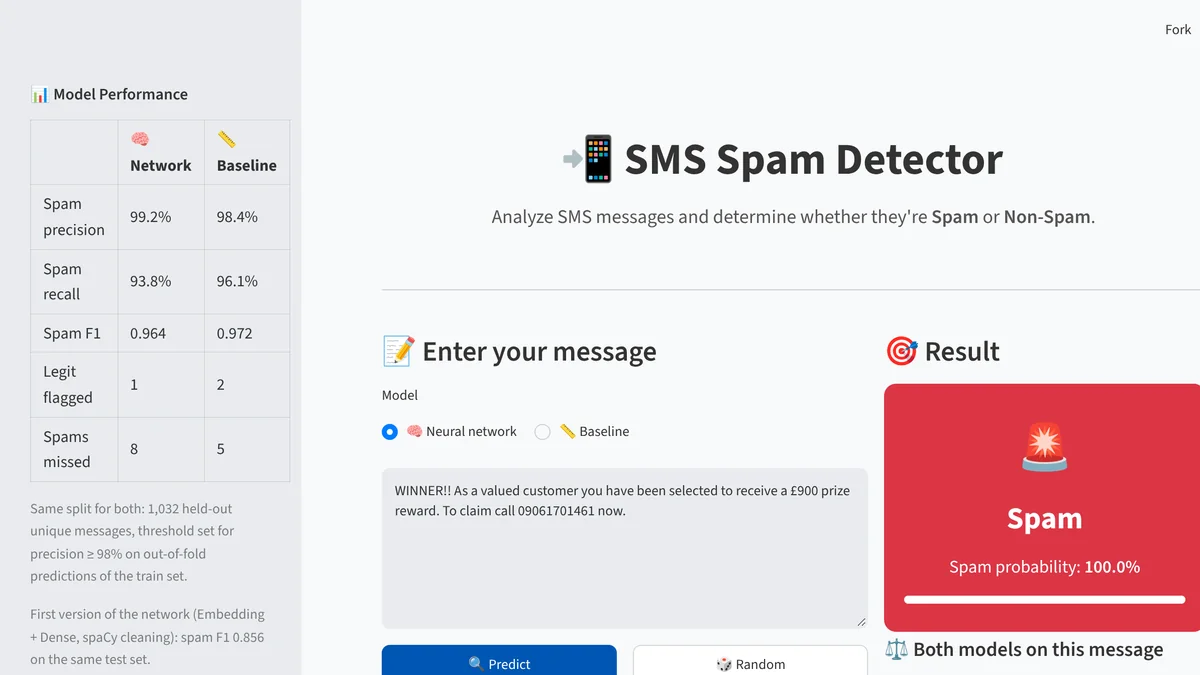
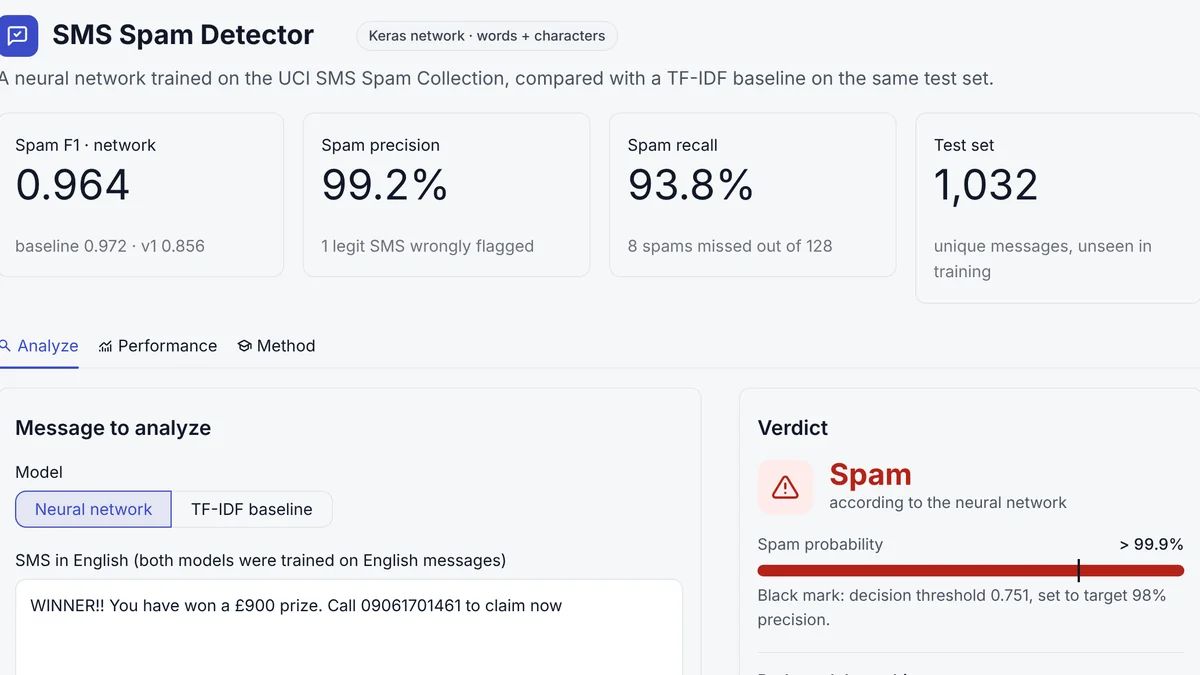
SMS Spam: screenshot of the redesigned app
- New card screenshot: headline metrics and a spam verdict from the
  analytics console redesign
- Hero and social preview images rebuilt

diff --git a/index.html b/index.html
@@ -17,12 +17,12 @@
 		<meta property="og:url" content="https://cnoret.github.io/" />
 		<meta property="og:title" content="Christophe Noret | Data Analyst · Analytics Engineer" />
 		<meta property="og:description" content="Les bons chiffres, au bon moment, pour les bonnes personnes. Data Analyst &amp; Analytics Engineer à Angers / Nantes : 4 projets avec démos en ligne." />
-		<meta property="og:image" content="https://cnoret.github.io/images/og-card.jpg?v=7" />
+		<meta property="og:image" content="https://cnoret.github.io/images/og-card.jpg?v=8" />
 		<meta property="og:image:width" content="1200" />
 		<meta property="og:image:height" content="630" />
 		<meta property="og:image:alt" content="Christophe Noret, Data Analyst et Analytics Engineer : « Les bons chiffres, au bon moment, pour les bonnes personnes. »" />
 		<meta name="twitter:card" content="summary_large_image" />
-		<meta name="twitter:image" content="https://cnoret.github.io/images/og-card.jpg?v=7" />
+		<meta name="twitter:image" content="https://cnoret.github.io/images/og-card.jpg?v=8" />
 		<link rel="canonical" href="https://cnoret.github.io/" />
 		<script type="application/ld+json">
 		{
@@ -127,7 +127,7 @@
 								</div>
 								<div class="col-12-mobile hero-visual-col">
 									<div class="hero-visual">
-										<img class="hero-quad" data-i18n-alt="hero.alt" src="images/hero-dashboards.webp?v=6" srcset="images/hero-dashboards-800.webp?v=3 800w, images/hero-dashboards-1200.webp?v=3 1200w, images/hero-dashboards.webp?v=6 1600w" sizes="(max-width: 960px) 92vw, (max-width: 1200px) calc(100vw - 310px), 33vw" fetchpriority="high" alt="Four project dashboards: retail sales, car rental pricing, French energy consumption and SMS spam detection" width="1600" height="900" />
+										<img class="hero-quad" data-i18n-alt="hero.alt" src="images/hero-dashboards.webp?v=7" srcset="images/hero-dashboards-800.webp?v=4 800w, images/hero-dashboards-1200.webp?v=4 1200w, images/hero-dashboards.webp?v=7 1600w" sizes="(max-width: 960px) 92vw, (max-width: 1200px) calc(100vw - 310px), 33vw" fetchpriority="high" alt="Four project dashboards: retail sales, car rental pricing, French energy consumption and SMS spam detection" width="1600" height="900" />
 									</div>
 								</div>
 							</div>
@@ -208,7 +208,7 @@
 								</div>
 								<div class="col-6 col-12-mobile">
 									<article class="item">
-										<a href="https://sms-spam-detector-cnoret.streamlit.app/" class="image fit" target="_blank" rel="noopener noreferrer"><img data-i18n-alt="p4.alt" src="images/projects/sms-spam.webp?v=2" srcset="images/projects/sms-spam-600.webp?v=2 600w, images/projects/sms-spam-800.webp?v=2 800w, images/projects/sms-spam.webp?v=2 1200w" sizes="(max-width: 960px) 92vw, (max-width: 1200px) calc(100vw - 330px), 36vw" width="1200" height="675" loading="lazy" decoding="async" alt="SMS Spam Detection" /></a>
+										<a href="https://sms-spam-detector-cnoret.streamlit.app/" class="image fit" target="_blank" rel="noopener noreferrer"><img data-i18n-alt="p4.alt" src="images/projects/sms-spam.webp?v=3" srcset="images/projects/sms-spam-600.webp?v=3 600w, images/projects/sms-spam-800.webp?v=3 800w, images/projects/sms-spam.webp?v=3 1200w" sizes="(max-width: 960px) 92vw, (max-width: 1200px) calc(100vw - 330px), 36vw" width="1200" height="675" loading="lazy" decoding="async" alt="SMS Spam Detection" /></a>
 										<header>
 											<h3 data-i18n="p4.title">SMS Spam Detection</h3>
 										</header>
